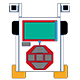
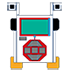
Reszie EV3

diff --git a/src/model/EV3.java b/src/model/EV3.java
@@ -1,4 +1,4 @@
-package core;
+package model;
 import java.awt.Point;
 
 import javax.script.ScriptEngine;
@@ -7,15 +7,16 @@ import javax.script.ScriptException;
 import javax.swing.JOptionPane;
 
 public class EV3 {
-	public static final double WIDTH = 50;
+
+	public static final double WIDTH = 42;
 	public static final double HEIGHT = 50;
 	
-	public static final double DIST_SENSOR_X = 27;
-	public static final double DIST_SENSOR_Y = 33;
+	public static final double DIST_SENSOR_X = 24;
+	public static final double DIST_SENSOR_Y = 29;
 	public static final double DIST_SENSOR = Math.sqrt(DIST_SENSOR_X*DIST_SENSOR_X + DIST_SENSOR_Y*DIST_SENSOR_Y);
 	public static final double ANGLE_SENSOR = Math.atan(DIST_SENSOR_X/DIST_SENSOR_Y);
-	
-	public static final double DIST_FRONT = 18;
+
+	public static final double DIST_FRONT = 10;
 	
 	
 	private ScriptEngine engine;
@@ -23,6 +24,9 @@ public class EV3 {
 	
 	private double[] pos;
 	private double direction;
+	
+	private boolean isRunning;
+	
 	
 	public EV3() {
 		pos = new double[2];
@@ -38,6 +42,7 @@ public class EV3 {
 	
 	public double getDirection(){return direction;}
 	public double[] getPos(){return pos;}
+	public boolean getIsRunning(){return isRunning;}
 	
 	public double[] getFrontCenterPos(){
 		double x = pos[0] + DIST_FRONT * Math.cos(direction);
@@ -61,37 +66,6 @@ public class EV3 {
 	
 	
 	public void rotateMotor(int motor1, int motor2){
-		/*
-		double u1 = motor1;
-		double u2 = motor2;
-		
-		double uWidth = WIDTH;
-		double uHeight = HEIGHT;
-
-		double angle = Math.atan(Math.abs(u2-u1)/uWidth);
-		double dist = (u1+u2+uHeight) * Math.cos(angle) /2; 
-	
-		
-		double deltaDivisor = dist; 
-				
-		double deltaX = (dist) * Math.cos(angle)/deltaDivisor; 
-		double deltaY = (u1>u2?1:-1)*(dist) * Math.sin(angle)/deltaDivisor;
-		double deltaAngle = (u1>u2?-1:1)*angle / deltaDivisor;
-		
-		for(int i=0; i<dist;i++){
-			pos[0] += deltaX; 
-			pos[1] += deltaY;
-			direction -= deltaAngle;
-			//System.out.println( getSensorLocation(true).x + ", " + getSensorLocation(true).y+ "   "+getSensorLocation(false).x+ ", " + getSensorLocation(false).y);
-			System.out.println(getBrightSensor1()+ ", "+ getBrightSensor2());
-			//System.out.println(pos[0] +", "+pos[1]);
-			try {
-				Thread.sleep(10);
-			} catch (InterruptedException e) {
-				e.printStackTrace();
-			}
-		}
-		*/
 		
 		final double unitDist = 1;
 		final double unitVector = 1;
@@ -102,8 +76,8 @@ public class EV3 {
 
 		
 		double deltaAlpha = (motor1>motor2?-1:1)*Math.atan(Math.abs(u1-u2)/WIDTH);
-		System.out.printf((int)pos[0] +", "+(int)pos[1] +": ");
-		System.out.println( getSensorLocation(true).x + ", " + getSensorLocation(true).y+ "   "+getSensorLocation(false).x+ ", " + getSensorLocation(false).y);
+		;//System.out.printf((int)pos[0] +", "+(int)pos[1] +": ");
+		//System.out.println( getSensorLocation(true).x + ", " + getSensorLocation(true).y+ "   "+getSensorLocation(false).x+ ", " + getSensorLocation(false).y);
 		
 		//accumulate vector movement
 		for( int i =0 ; i<motorDivisor; i++){
@@ -126,21 +100,32 @@ public class EV3 {
 	}
 	
 	public double getBrightSensor1(){
-		return Map.getBrightness(getSensorLocation(true));
+		try{
+			return Map.getBrightness(getSensorLocation(true));
+		}catch(ArrayIndexOutOfBoundsException e){
+			return 0;
+		}
+		
 	}
 	public double getBrightSensor2(){
-		return Map.getBrightness(getSensorLocation(false));
+		try{
+			return Map.getBrightness(getSensorLocation(false));
+		}catch(ArrayIndexOutOfBoundsException e){
+			return 0;
+		}
 	}
 	
 	
 	public void startRunning(String code){
 		runCodeThread = new RunCodeThread(code);
 		runCodeThread.start();	
+		isRunning = true;
 	}
 	@SuppressWarnings("deprecation")
 	public void stopRunning(){
 		runCodeThread.stop();
 		runCodeThread = null;
+		isRunning = false;
 	}
 
 	class RunCodeThread extends Thread{
@@ -158,6 +143,7 @@ public class EV3 {
 			}catch (ScriptException e) {
 				JOptionPane.showMessageDialog(null, e.getMessage());
 			}finally {
+				isRunning = false;
 				JOptionPane.showMessageDialog(null, "finished");
 			}
 			

diff --git a/src/view/SimulatorPanel.java b/src/view/SimulatorPanel.java
@@ -1,4 +1,4 @@
-package frame;
+package view;
 
 import java.awt.BorderLayout;
 import java.awt.Color;
@@ -16,8 +16,8 @@ import javax.swing.JButton;
 import javax.swing.JPanel;
 import javax.swing.border.LineBorder;
 
-import core.EV3;
-import core.Map;
+import model.EV3;
+import model.Map;
 
 @SuppressWarnings("serial")
 public class SimulatorPanel extends JPanel{
@@ -37,7 +37,6 @@ public class SimulatorPanel extends JPanel{
 	
 	private SimulatingPanel simulatingPanel;
 	private RedrawThread redrawThread;
-	private boolean isSimulating;
 	
 	
 	public SimulatorPanel(MainFrame parentFrame, EV3 ev3) {
@@ -91,6 +90,7 @@ public class SimulatorPanel extends JPanel{
 	}
 	private void stopRedrawThread(){
 		redrawThread.interrupt();
+		redrawThread = null;
 	}
 	
 	
@@ -126,8 +126,7 @@ public class SimulatorPanel extends JPanel{
 	class StartButtonActionListener implements ActionListener{
 		@Override
 		public void actionPerformed(ActionEvent e) {
-			if(!isSimulating){
-				isSimulating = true;
+			if(!ev3.getIsRunning()){
 				ev3.startRunning(parentFrame.getCode());
 				startRedrawThread();
 			}
@@ -137,12 +136,10 @@ public class SimulatorPanel extends JPanel{
 	class ResetButtonActionListener implements ActionListener{
 		@Override
 		public void actionPerformed(ActionEvent e) {
-			if(isSimulating){
-				ev3.stopRunning();
-				stopRedrawThread();
-				redrawSimulatingPanel();
-				isSimulating = false;
-			}
+			ev3.stopRunning();
+			ev3.resetPosition();
+			stopRedrawThread();
+			redrawSimulatingPanel();
 		}
 	}
 	class PrevButtonActionListener implements ActionListener{

diff --git a/src/model/Map.java b/src/model/Map.java
@@ -1,4 +1,4 @@
-package core;
+package model;
 import java.awt.Color;
 import java.awt.Point;
 import java.awt.image.BufferedImage;
@@ -63,11 +63,11 @@ public class Map {
 	
 	public static Point getStartPoint(){return startPoint;}
 	public static double getStartDirection(){return startDirection;}
-	public static Color getColorValue(Point point){
+	public static Color getColorValue(Point point) throws ArrayIndexOutOfBoundsException{
 		return new Color(bufferedImage.getRGB(point.x, point.y));
 	}
 	
-	public static double getBrightness(Point point){
+	public static double getBrightness(Point point) throws ArrayIndexOutOfBoundsException{
 		Color color = new Color(bufferedImage.getRGB(point.x, point.y));
 		return Color.RGBtoHSB(color.getRed(), color.getGreen(), color.getBlue(), null)[2];
 	}

diff --git a/src/view/MainFrame.java b/src/view/MainFrame.java
@@ -1,16 +1,16 @@
-package frame;
+package view;
 
 import java.awt.GridBagConstraints;
 import java.awt.GridBagLayout;
 
 import javax.swing.JFrame;
 
-import core.EV3;
+import model.EV3;
 
 @SuppressWarnings("serial")
 public class MainFrame extends JFrame{
 	
-	private static final int WIDTH = 1475;
+	private static final int WIDTH = 1460;
 	private static final int HEIGHT = 600;
 	
 	private SimulatorPanel simulatorPanel;

diff --git a/src/model/Main.java b/src/model/Main.java
@@ -1,6 +1,6 @@
-package core;
+package model;
 
-import frame.MainFrame;
+import view.MainFrame;
 
 public class Main {
 

diff --git a/src/view/CodePanel.java b/src/view/CodePanel.java
@@ -1,4 +1,4 @@
-package frame;
+package view;
 
 import java.awt.BorderLayout;
 import java.awt.Color;
